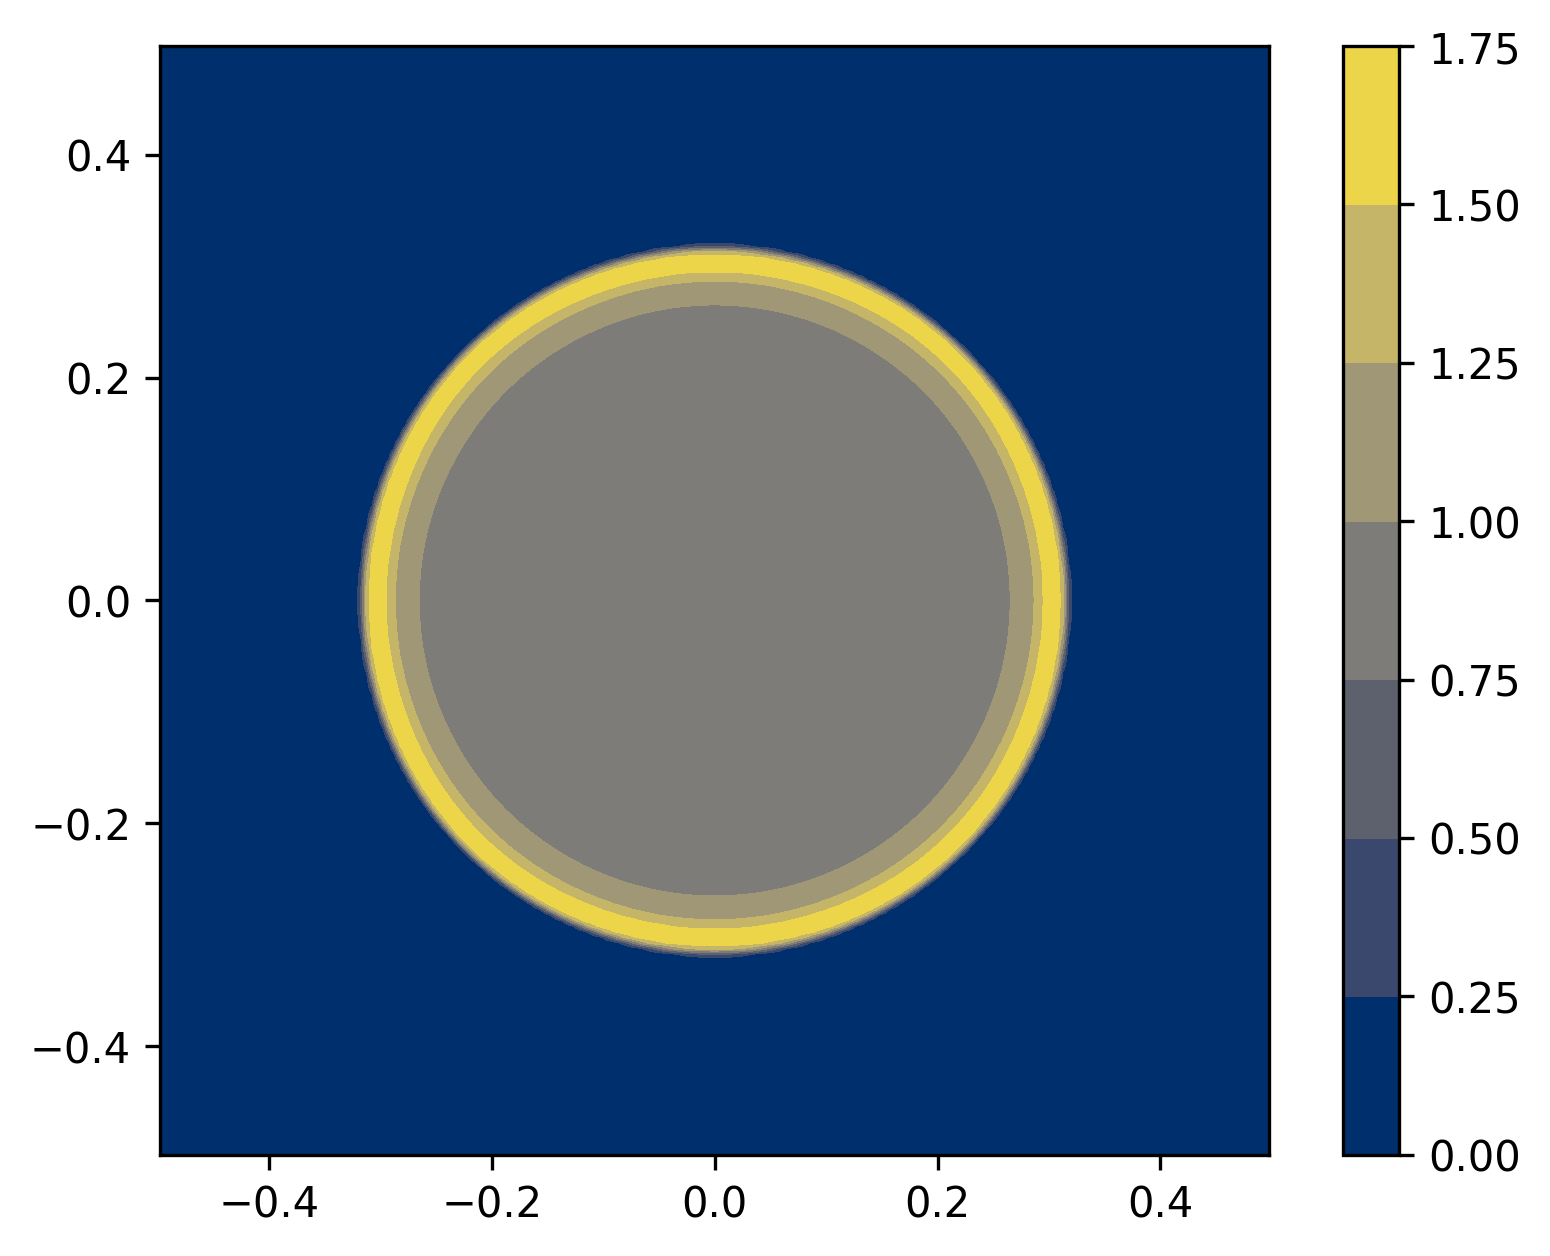
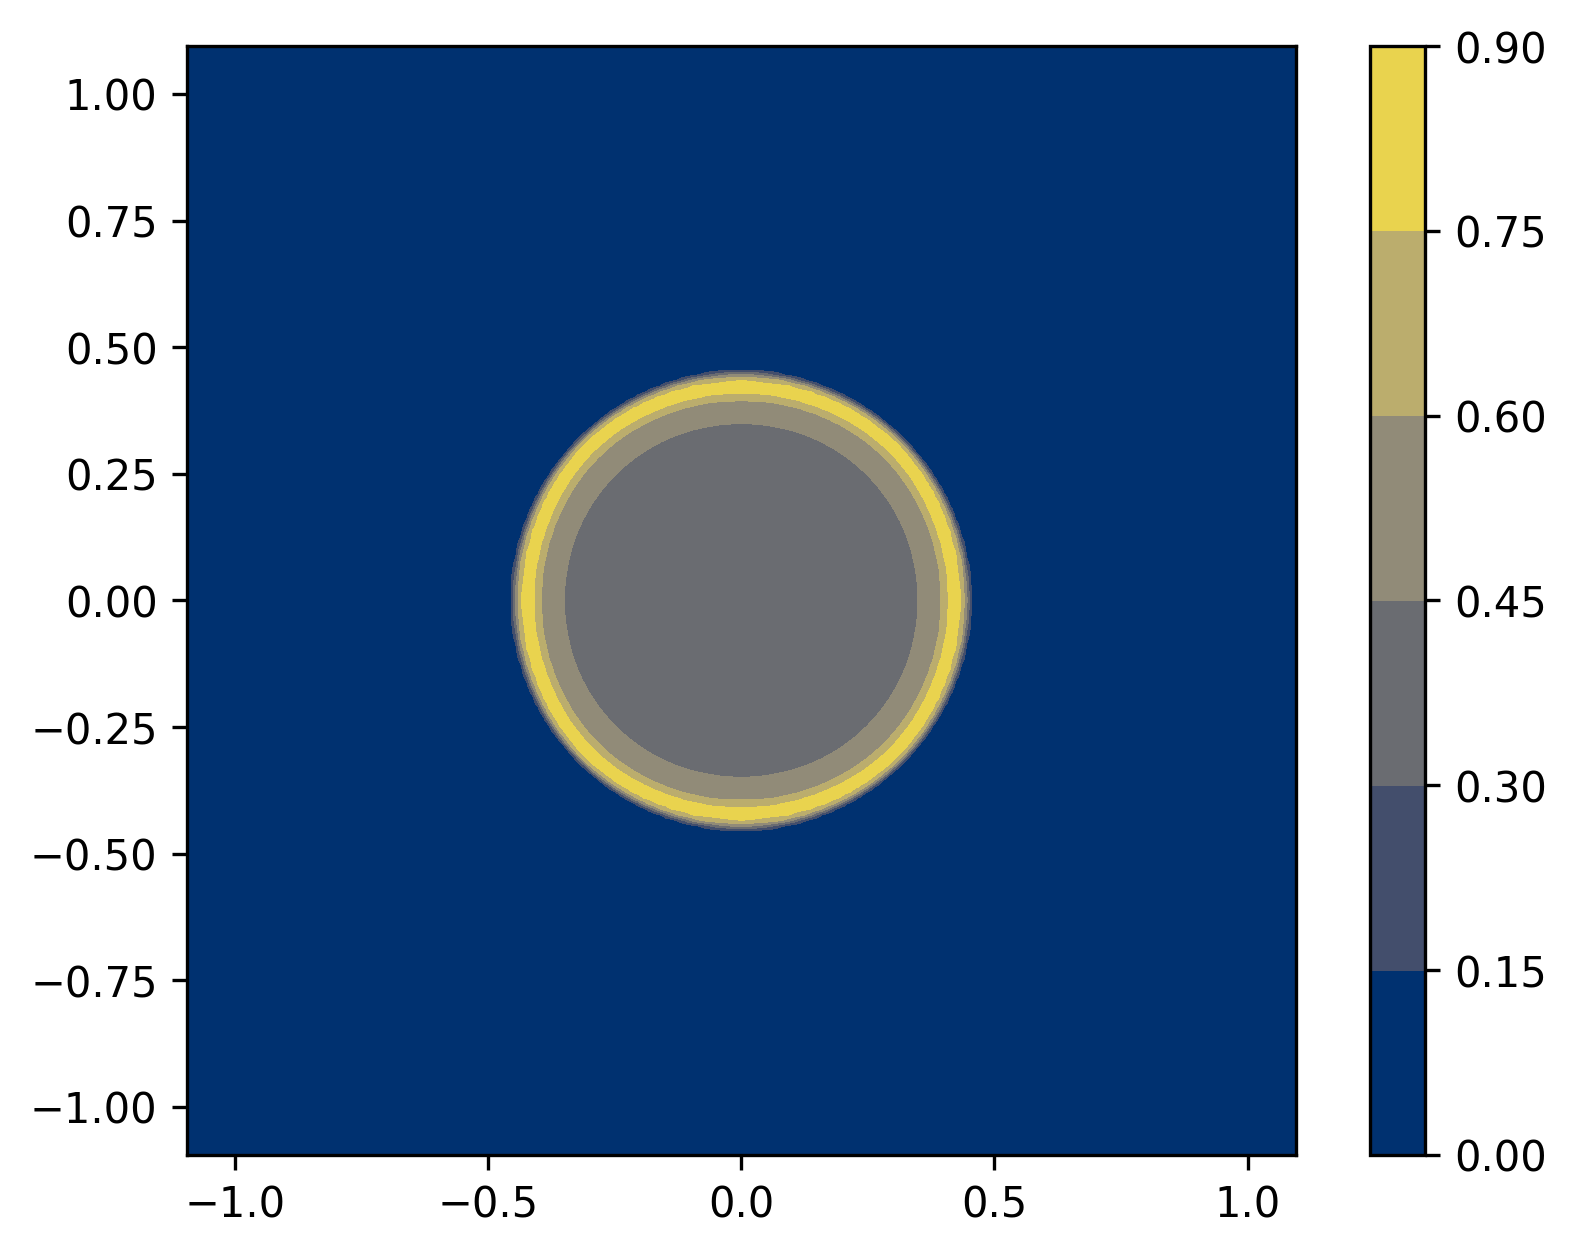
fix mesh for sedov and figure

diff --git a/meshing_scripts/create_full_mesh_for.py b/meshing_scripts/create_full_mesh_for.py
@@ -136,7 +136,7 @@ if __name__== "__main__":
             "-n", str(args.numCells[0]), str(args.numCells[1]),
             "--outDir", args.outDir,
             "--stencilSize", str(s),
-            "--bounds", str(-0.6), str(0.6), str(-0.6), str(0.6),
+            "--bounds", str(-1.2), str(1.2), str(-1.2), str(1.2),
             "--periodic", "false")
     popen  = subprocess.Popen(args, stdout=subprocess.PIPE); popen.wait()
 
